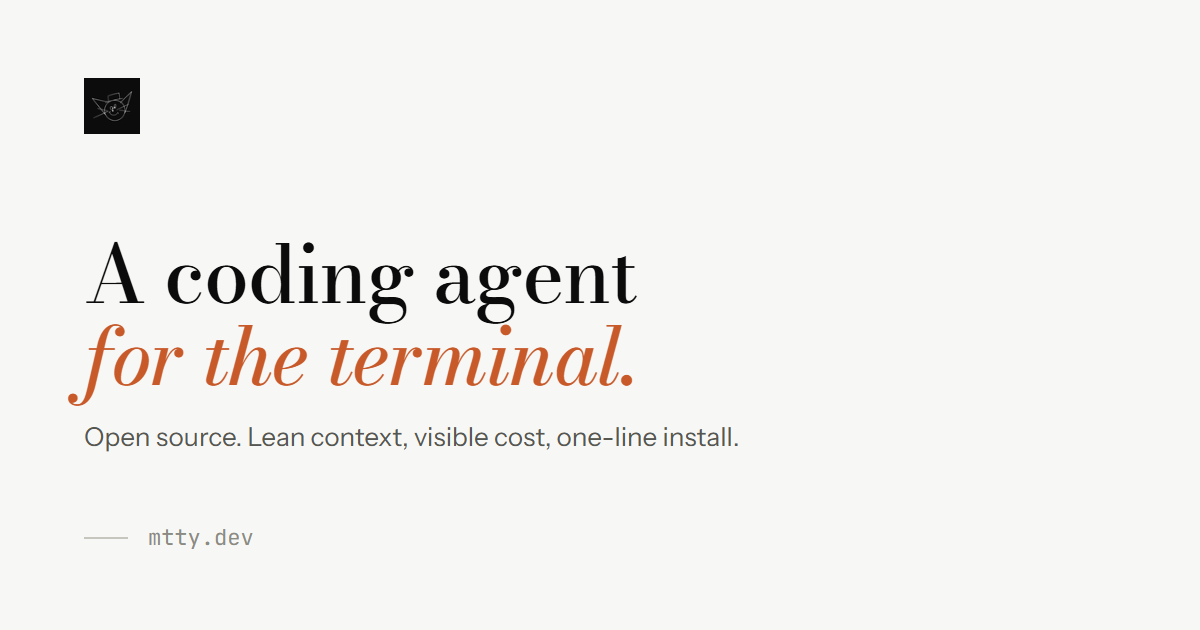
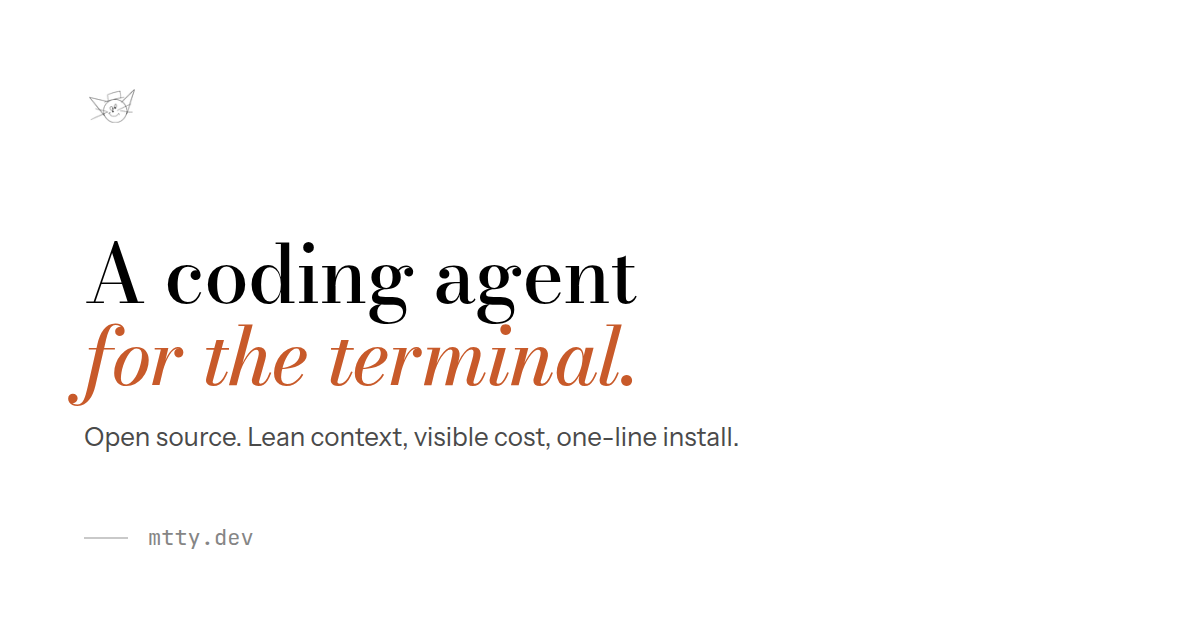
feat(site): make the miao headline about how it lowers cost (#71)
The miao headline now names the mechanism and the result: lean context,
lower cost. It keeps the home page's slogan grammar (bold first word,
italic soft word, upper-case second line) in both locales.

The social cards are regenerated so the miao cards carry the new
headline. The other four cards change only because the committed PNGs
predated the #59 favicon change and the monochrome palette: the script
reads both from the files the pages use.

diff --git a/scripts/og.ts b/scripts/og.ts
@@ -121,20 +121,20 @@ const cards: Card[] = [
     lang: "en",
     mark: miaoMark,
     name: "miao",
-    headline: "Read first.",
-    accent: "Then edit.",
+    headline: "Lean context.",
+    accent: "Lower cost.",
     ink: "var(--miao-2)",
-    sub: "Lean context, visible cost, one-line install.",
+    sub: "Visible cost per turn. Open source, one-line install.",
   },
   {
     file: "miao-zh.png",
     lang: "zh",
     mark: miaoMark,
     name: "miao",
-    headline: "先看懂，",
-    accent: "再动手。",
+    headline: "上下文精简，",
+    accent: "费用更低。",
     ink: "var(--miao-2)",
-    sub: "上下文精简，费用逐轮记录。",
+    sub: "费用逐轮可见。开源，一行安装。",
   },
   {
     file: "mtty-en.png",
